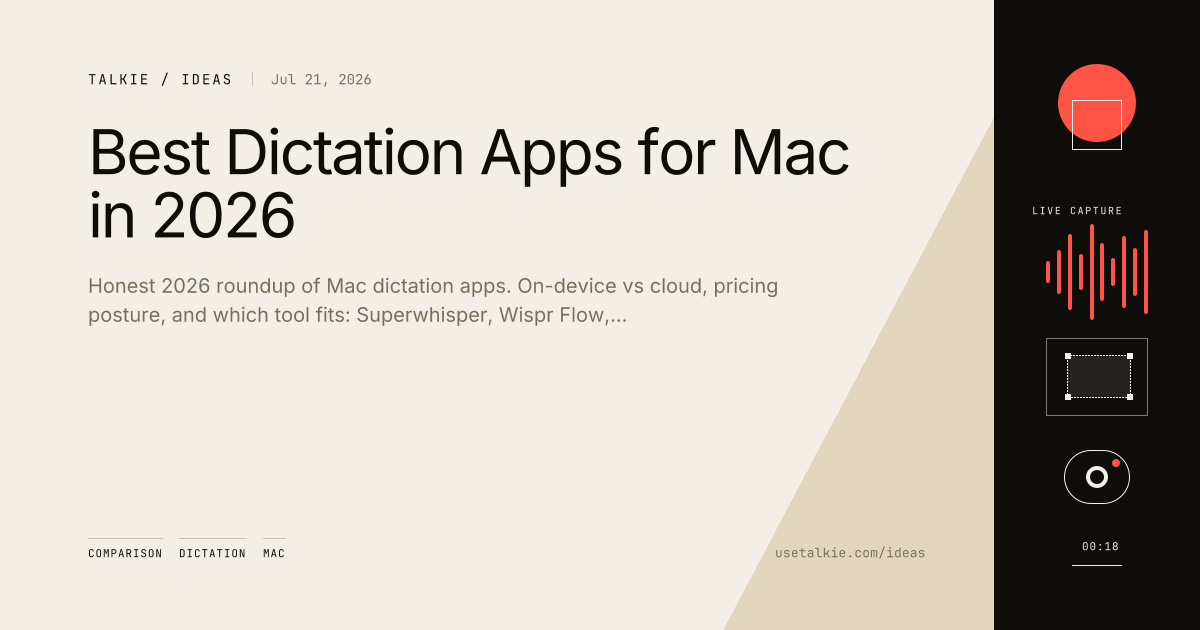
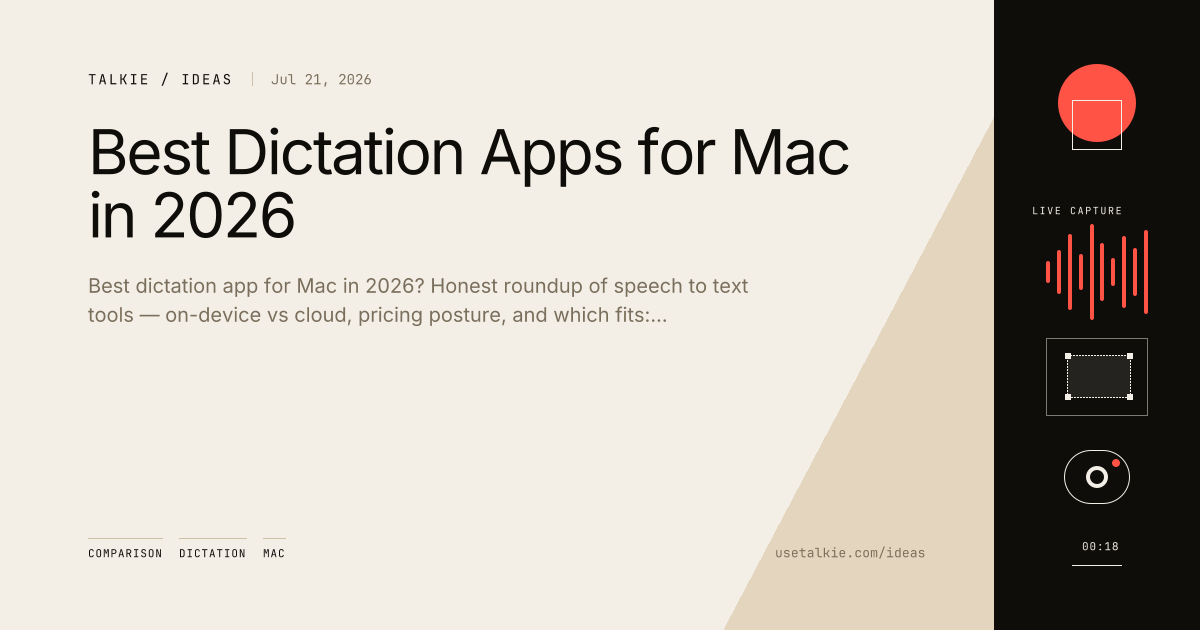
Add Mac dictation content pillars and how-to guides
Own the mac dictation / speech-to-text cluster with a hub guide, local STT explainer, and Cursor/ChatGPT how-tos. Tighten Wispr Flow alternative and best-apps SEO titles, refresh Obsidian workflow meta, and wire sitemap plus Mac page links.

Changed region(s): [[0.0617, 0.4222, 0.6475, 0.5127]]

diff --git a/components/MacPage.jsx b/components/MacPage.jsx
@@ -55,6 +55,16 @@ export default function MacPage() {
             Shape a draft, search what you said, or start a workflow without leaving the page.
             The current Mac build is free. A 7-day trial and a $39 one-time license for up to two Macs are planned.
           </p>
+          <p className="mt-4 max-w-2xl text-[13px] leading-relaxed text-ink-muted">
+            Guides:{' '}
+            <a href="/ideas/mac-dictation/" className="underline decoration-edge underline-offset-2 hover:text-ink">Mac dictation</a>
+            {' · '}
+            <a href="/ideas/local-speech-to-text/" className="underline decoration-edge underline-offset-2 hover:text-ink">Local speech to text</a>
+            {' · '}
+            <a href="/ideas/dictate-into-cursor/" className="underline decoration-edge underline-offset-2 hover:text-ink">Dictate into Cursor</a>
+            {' · '}
+            <a href="/compare/best-dictation-apps-for-mac/" className="underline decoration-edge underline-offset-2 hover:text-ink">Best apps for Mac</a>
+          </p>
         </div>
       </section>
 

diff --git a/components/workflows/workflowsData.jsx b/components/workflows/workflowsData.jsx
@@ -84,8 +84,8 @@ export const WORKFLOWS = [
     body: 'Record the messy thought. Save the useful version as Markdown in your vault.',
     outcome: 'NOTE FILED',
     headline: { lead: 'Messy memo,', accent: 'filed as Markdown' },
-    subhead: 'Record the raw thought and save the useful version to your vault.',
-    metaDescription: 'Record a messy thought in Talkie, distill it with a workflow step, and save a titled Markdown note into your Obsidian vault on your Mac desktop.',
+    subhead: 'Turn a voice memo into an Obsidian Markdown note without retyping.',
+    metaDescription: 'Voice memo to Obsidian on Mac: record in Talkie, distill the capture, and save a titled Markdown note into your vault — a local speech-to-note workflow.',
     when:
       'An idea shows up and you do not want to open anything. Talk it through, tangents and all. Talkie distills it to a clean note and writes it into @Notes with a title and date already set.',
     steps: [

diff --git a/public/compare.md b/public/compare.md
@@ -7,11 +7,11 @@ Canonical page: https://usetalkie.com/compare/
 - [A Private, Local Otter.ai Alternative for Dictation and Capture](https://usetalkie.com/compare/otter/) — Looking for an Otter.ai alternative that keeps voice on-device? Talkie is local-first dictation and capture for Mac and iPhone, with a CLI for agents.
 - [Aiko alternative: when file transcription isn't live dictation](https://usetalkie.com/compare/aiko/) — Looking for an Aiko alternative? Aiko transcribes audio files on-device with Whisper. Talkie does live dictation and turns captures into agent-ready data.
 - [Aqua Voice Alternative: Talkie, a Local-First Dictation App for Mac](https://usetalkie.com/compare/aqua-voice/) — Looking for an Aqua Voice alternative? Talkie is on-device voice dictation for Mac, iPhone, and Apple Watch, with a CLI that pipes voice into agents.
-- [Best Dictation Apps for Mac in 2026](https://usetalkie.com/compare/best-dictation-apps-for-mac/) — Honest 2026 roundup of Mac dictation apps. On-device vs cloud, pricing posture, and which tool fits: Superwhisper, Wispr Flow, MacWhisper, Aqua Voice, Talkie.
+- [Best Dictation Apps for Mac in 2026](https://usetalkie.com/compare/best-dictation-apps-for-mac/) — Best dictation app for Mac in 2026? Honest roundup of speech to text tools — on-device vs cloud, pricing posture, and which fits: Superwhisper, Wispr Flow, MacWhisper, Talkie.
 - [DictaFlow alternative: Talkie for local-first dictation with a CLI](https://usetalkie.com/compare/dictaflow/) — A DictaFlow alternative for people who want dictation that stays on-device and exposes captures as structured data for scripts and AI agents.
 - [Talkie vs Apple Dictation: When Built-In Isn't Enough](https://usetalkie.com/compare/apple-dictation/) — An honest Apple Dictation alternative comparison. Both work on-device. Talkie adds structured local storage, a programmable CLI, and dictation into AI agents.
 - [Talkie vs Dragon: A Mac Alternative After Dragon Left](https://usetalkie.com/compare/dragon/) — Looking for a Dragon dictation alternative for Mac? Dragon left the consumer Mac market. Talkie is an on-device, Mac-native option that also feeds your agents.
 - [Talkie vs Superwhisper: A Local-First Alternative for Mac](https://usetalkie.com/compare/superwhisper/) — Looking for a Superwhisper alternative? Talkie runs speech-to-text on-device, syncs across Mac, iPhone, and Watch, and hands voice to the CLI and agents.
 - [Talkie: A Local-First MacWhisper Alternative With a CLI](https://usetalkie.com/compare/macwhisper/) — Looking for a MacWhisper alternative? Talkie offers on-device voice dictation for Mac, iPhone, and Watch, with a CLI that turns captures into structured data.
 - [Talon Voice alternative for dictation that drives your agents](https://usetalkie.com/compare/talon/) — Looking for a Talon Voice alternative? Talkie is on-device Mac dictation that turns speech into structured captures you can pipe into Claude Code and agents.
-- [Wispr Flow Alternative: Talkie, a Local-First Mac Dictation App](https://usetalkie.com/compare/wispr-flow/) — An honest Wispr Flow alternative for Mac and iPhone: Talkie is on-device, local-first dictation with a CLI that turns voice into structured data for agents.
+- [Wispr Flow Alternative: Talkie, a Local-First Mac Dictation App](https://usetalkie.com/compare/wispr-flow/) — Looking for a Wispr Flow alternative on Mac? Honest comparison: Wispr Flow’s cloud polish vs Talkie’s on-device dictation, local capture library, and CLI for agents.

diff --git a/public/compare/best-dictation-apps-for-mac.md b/public/compare/best-dictation-apps-for-mac.md
@@ -1,12 +1,14 @@
 # Best Dictation Apps for Mac in 2026
 
-Honest 2026 roundup of Mac dictation apps. On-device vs cloud, pricing posture, and which tool fits: Superwhisper, Wispr Flow, MacWhisper, Aqua Voice, Talkie.
+Best dictation app for Mac in 2026? Honest roundup of speech to text tools — on-device vs cloud, pricing posture, and which fits: Superwhisper, Wispr Flow, MacWhisper, Talkie.
 
 - Canonical page: https://usetalkie.com/compare/best-dictation-apps-for-mac/
 - Author: Arach Tchoupani
 - Published: 2026-07-21
 
 There are more good dictation apps for Mac than there used to be, and they're not really competing for the same job. Some are built for typing by voice into any app. Some transcribe recordings after the fact. One runs your whole computer hands-free. Picking well means matching the tool to what you actually do, not to a feature checklist.
+
+For a category primer first, read the [Mac dictation and speech to text guide](/ideas/mac-dictation/).
 
 Full disclosure: I make [Talkie](/downloads/), so I'm not a neutral referee. But a roundup that pretends every rival is bad is useless to you and a little embarrassing to write, so I've tried to be honest about when each of these is the better choice — and there are plenty of cases where something here beats Talkie.
 

diff --git a/public/compare/wispr-flow.md b/public/compare/wispr-flow.md
@@ -1,6 +1,6 @@
 # Wispr Flow Alternative: Talkie, a Local-First Mac Dictation App
 
-An honest Wispr Flow alternative for Mac and iPhone: Talkie is on-device, local-first dictation with a CLI that turns voice into structured data for agents.
+Looking for a Wispr Flow alternative on Mac? Honest comparison: Wispr Flow’s cloud polish vs Talkie’s on-device dictation, local capture library, and CLI for agents.
 
 - Canonical page: https://usetalkie.com/compare/wispr-flow/
 - Author: Arach Tchoupani
@@ -55,4 +55,4 @@ See the sourced comparison matrix on the canonical HTML page.
 
 [Download Talkie for Mac and iPhone →](/downloads/)
 
-Related reading: [Dictate straight into Claude Code](/workflows/dictate-to-claude/), [why Talkie has a CLI](/ideas/why-talkie-has-a-cli/), and our roundup of the [best dictation apps for Mac](/compare/best-dictation-apps-for-mac/).
+Related reading: [Mac dictation guide](/ideas/mac-dictation/), [Dictate straight into Claude Code](/workflows/dictate-to-claude/), [why Talkie has a CLI](/ideas/why-talkie-has-a-cli/), and our roundup of the [best dictation apps for Mac](/compare/best-dictation-apps-for-mac/).
